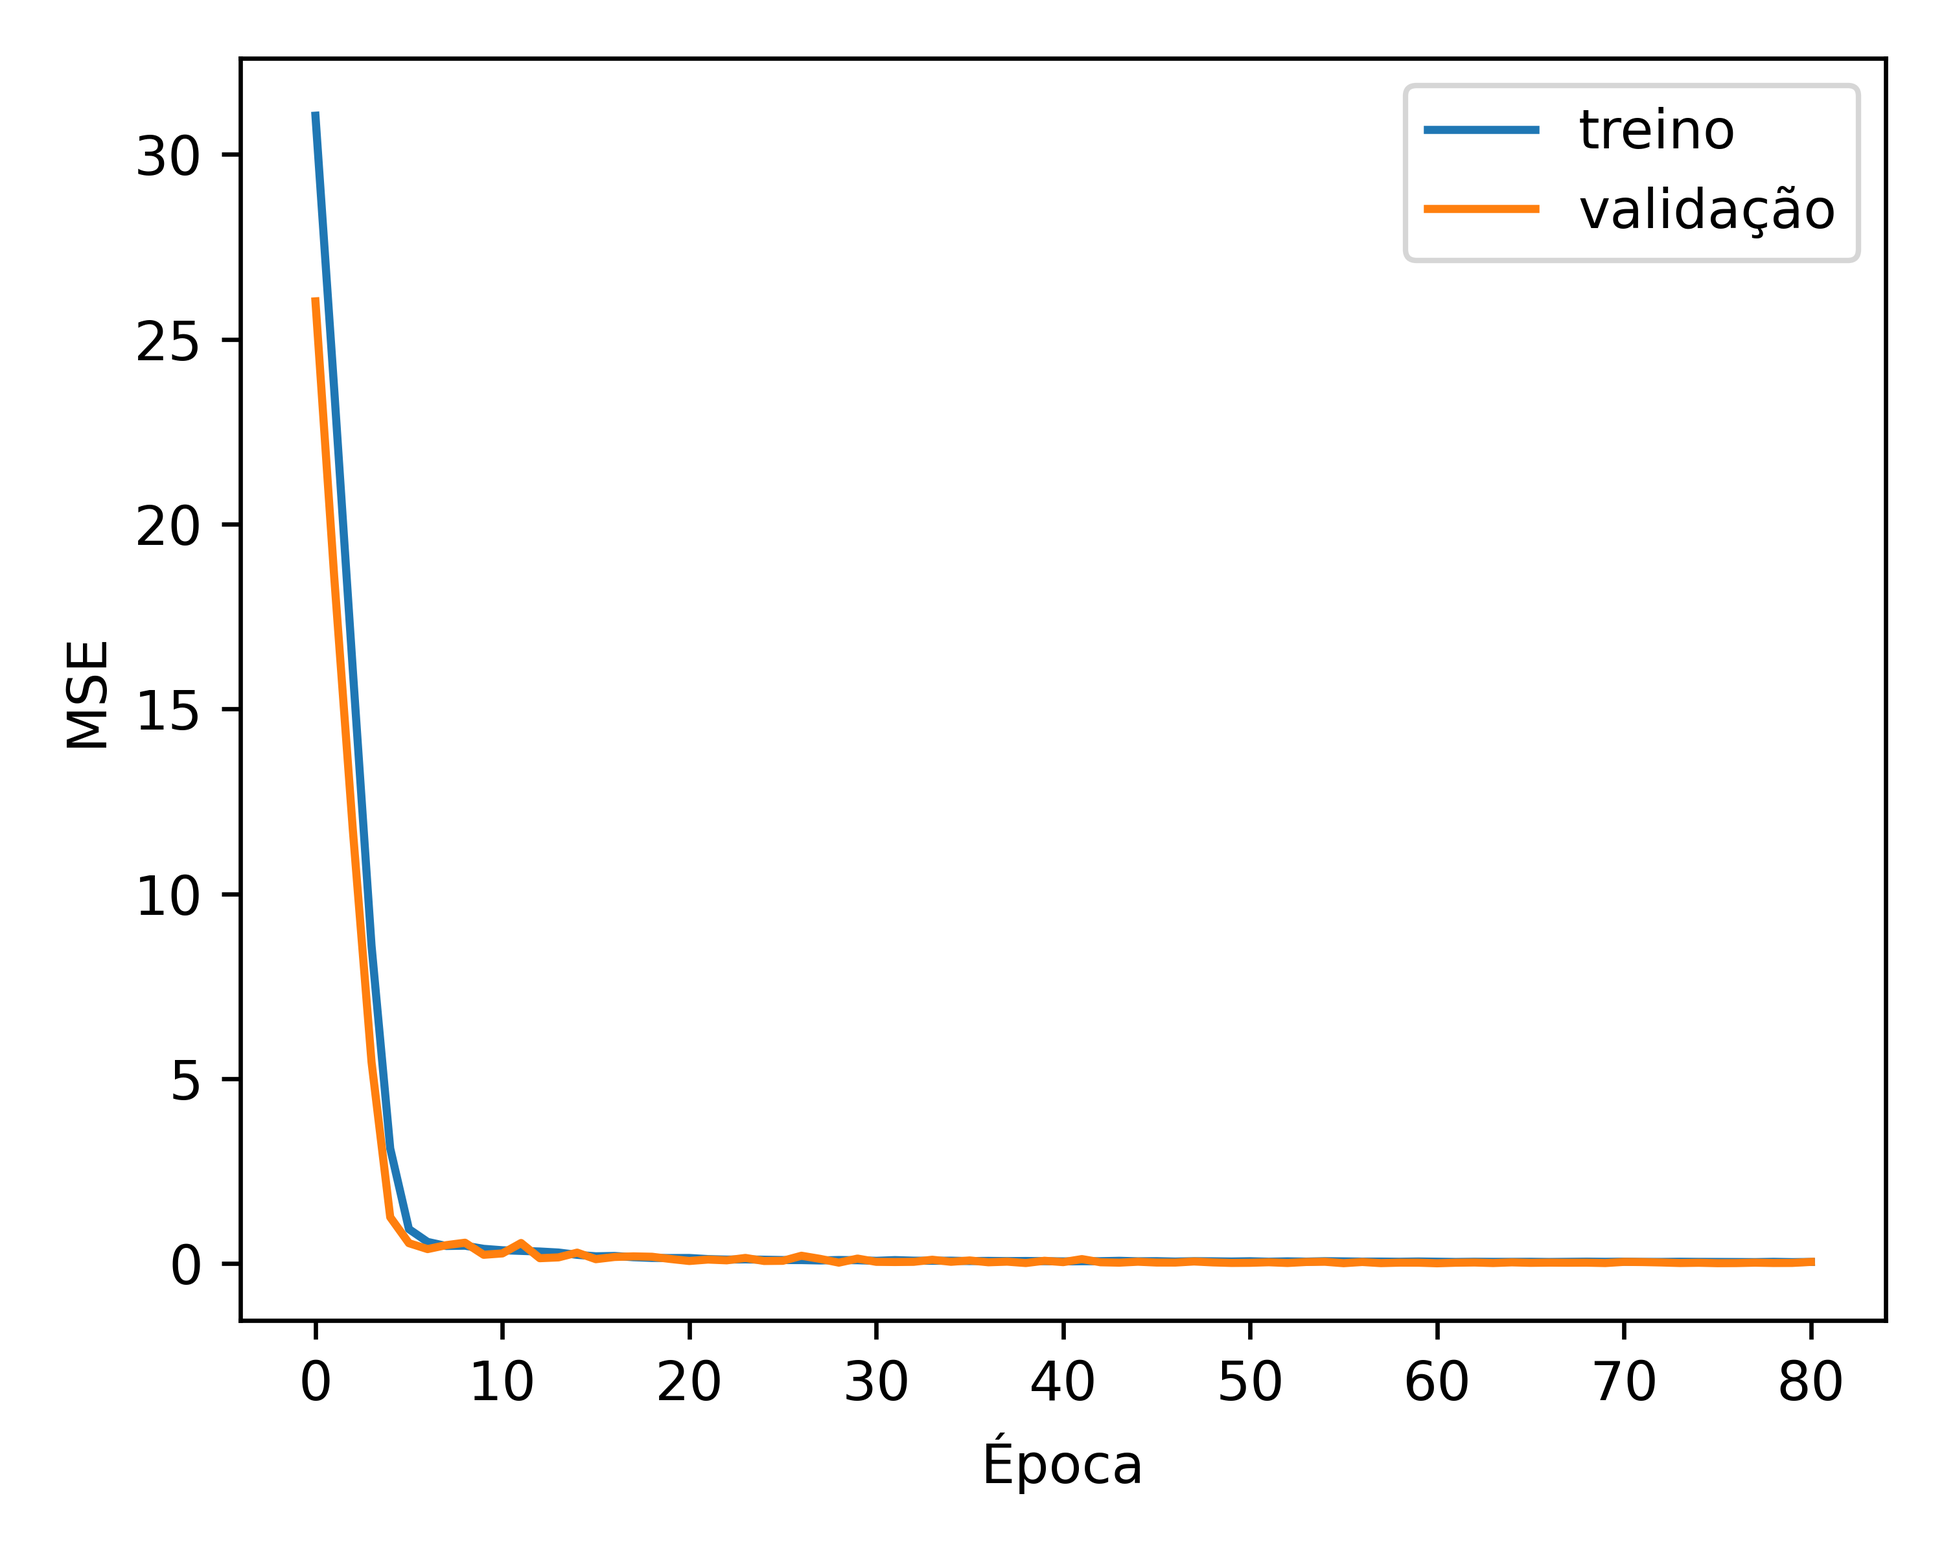
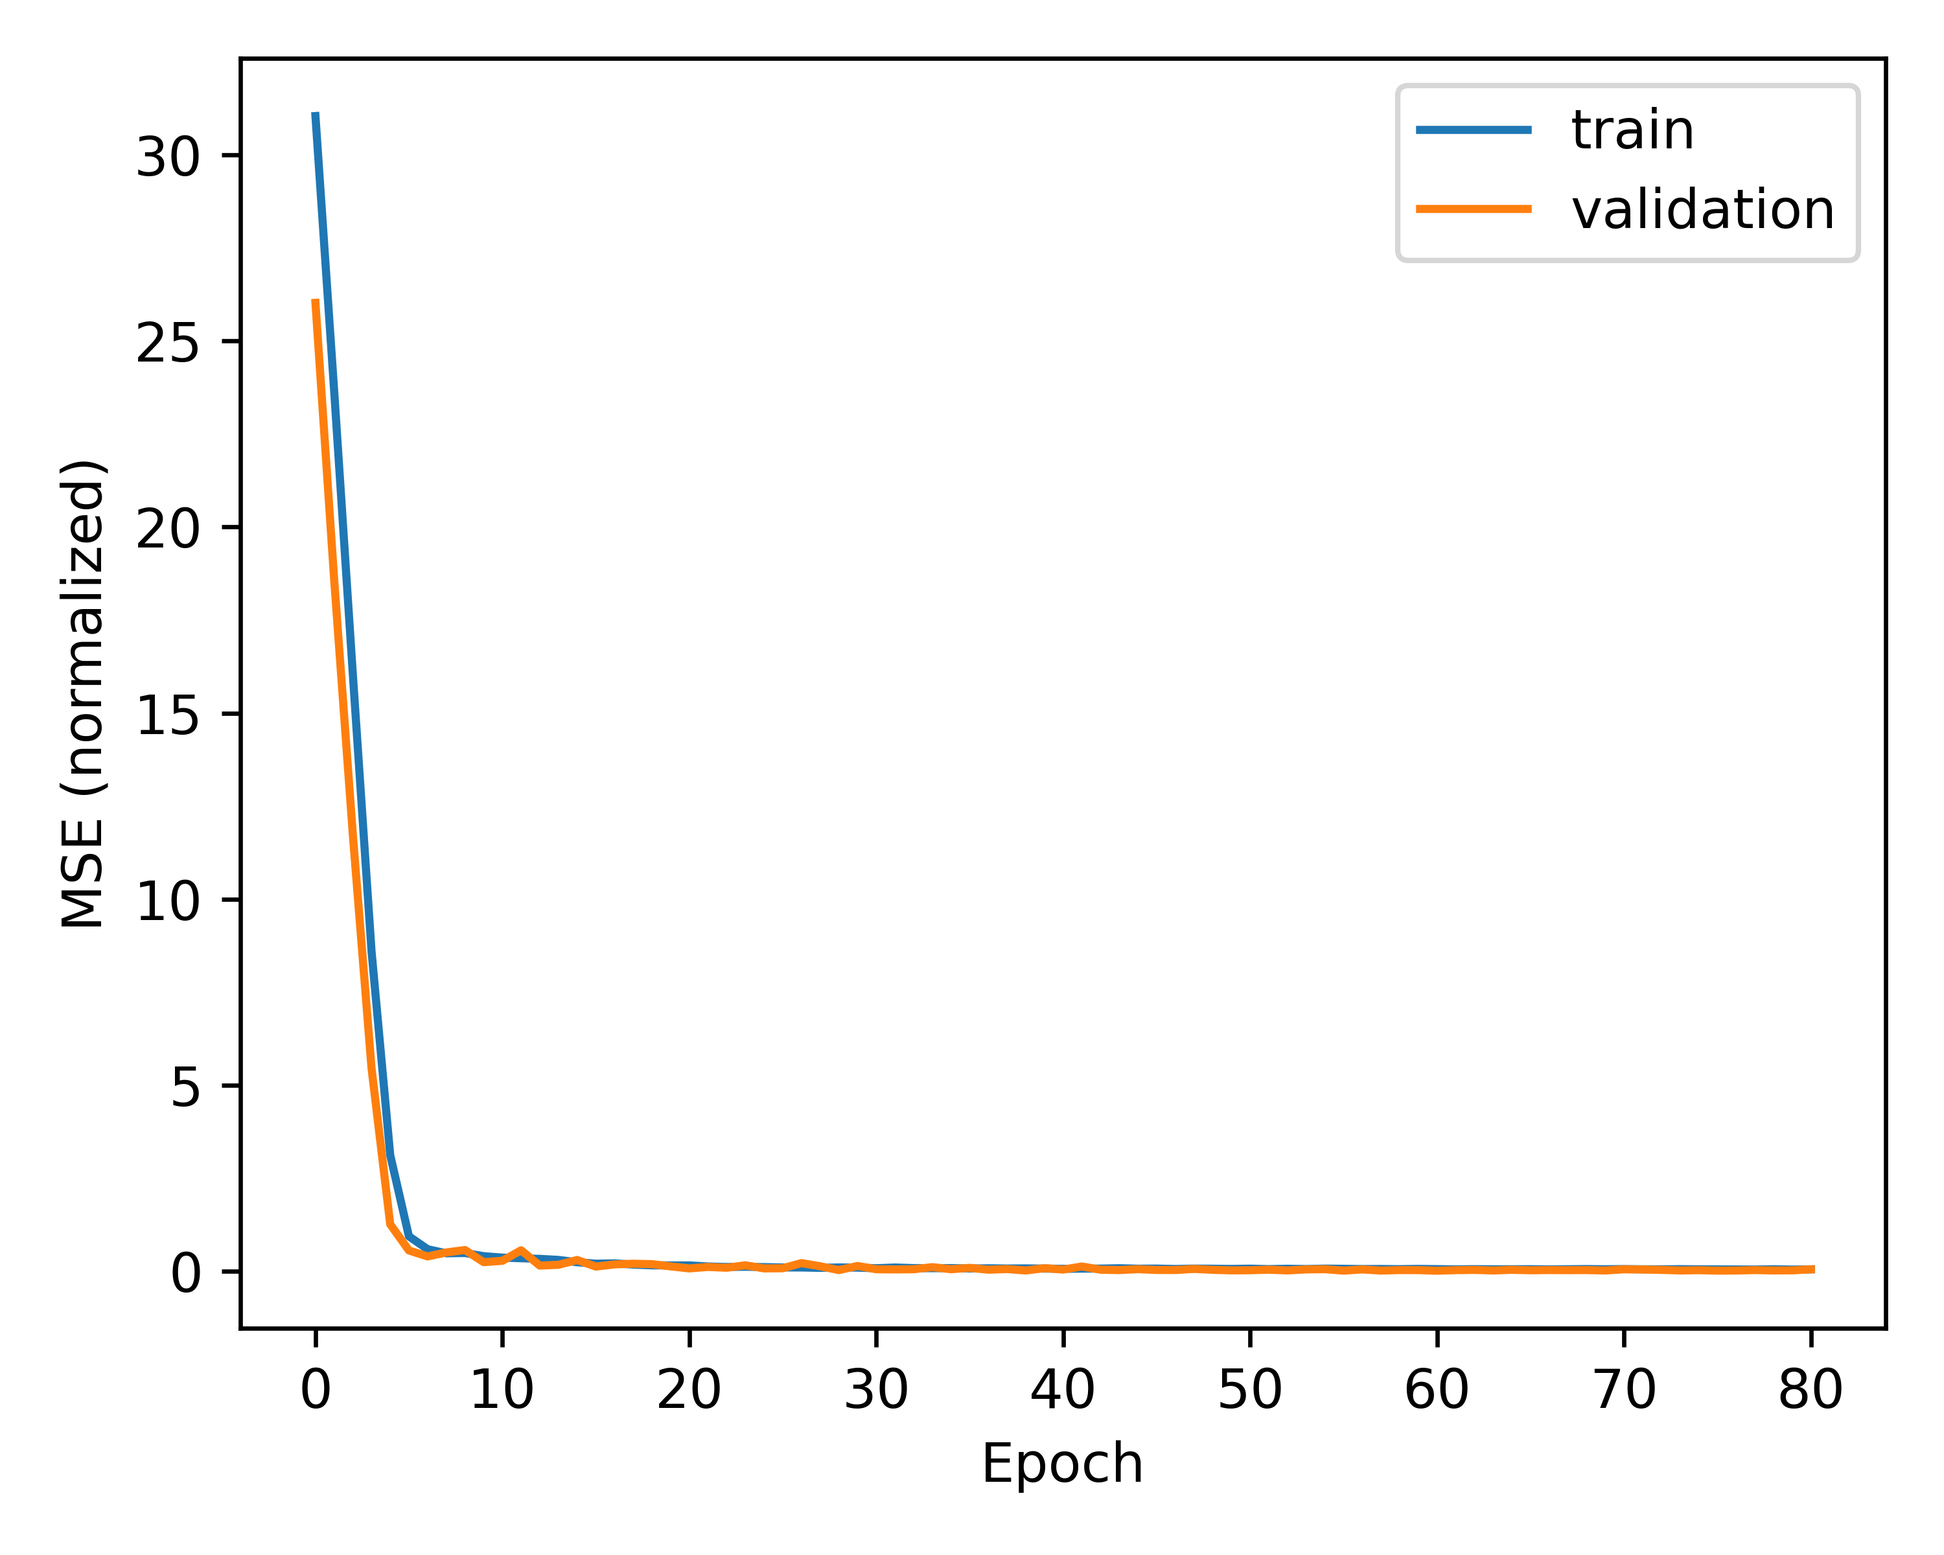
artigo com resultados

diff --git a/artigo/results.tex b/artigo/results.tex
@@ -5,13 +5,8 @@ aumento de dados (ruído gaussiano leve) e seleção de hiperparâmetros
 via busca em grade. As análises exploratórias mostram a distribuição das
 variáveis e suas correlações, enquanto as figuras de desempenho destacam a
 estabilidade do treinamento e a qualidade das predições em relação aos valores
-observados.
-
-Com a melhor configuração do grid search (Tabela~\ref{tab:grid_top5}), o modelo
-atingiu desempenho de teste $MSE=0{,}0327$ e $MAE=0{,}1437$ para a predição de pH.
-Considerando a faixa observada de pH (aprox. 5{,}16 a 6{,}52), o erro médio absoluto
-representa uma fração reduzida do intervalo total, indicando boa precisão relativa
-para um conjunto de dados pequeno.
+observados. A Tabela~\ref{tab:grid_top5} resume as cinco melhores combinações do
+grid search do modelo multimodal, ordenadas pela menor perda de validação.
 
 \begin{table}[ht!]
 \centering
@@ -148,29 +143,112 @@ organiza esses valores para facilitar a comparação com a Raspberry.
 Dispositivo & Latência média (ms) & Desvio padrão (ms) & Throughput (amostras/s) \\
 \midrule
 Android 23021RAAEG & $0{,}093$ & $0{,}005$ & $10780{,}37$ \\
+Android SM-A566E & $0{,}030$ & $0{,}002$ & $33425{,}81$ \\
+Android 2201117SG & $0{,}61$ & $0{,}014$ & $16313{,}16$ \\
 \bottomrule
 \end{tabular}
 \label{tab:latency_android}
 \end{table}
 
 Além da latência, a energia incremental foi estimada diretamente no celular via leitura
-de corrente e tensão do sistema. A potência média em idle foi $1{,}977$ W e em carga
-$2{,}106$ W, resultando em $\Delta P = 0{,}128$ W. Com throughput de $12337{,}40$
-amostras/s, a energia por inferência estimada foi de $0{,}0104$ mJ/inf, baseada em
-200 amostras de potência (Tabela~\ref{tab:energy_android}).
+de corrente e tensão do sistema. No 23021RAAEG, a potência média em idle foi $1{,}977$ W e em
+carga $2{,}106$ W, resultando em $\Delta P = 0{,}128$ W e energia de $0{,}0104$ mJ/inf
+($12337{,}40$ amostras/s). No SM-A566E, a potência média em idle foi $3{,}455$ W e em carga
+$3{,}923$ W, resultando em $\Delta P = 0{,}468$ W e energia de $0{,}0151$ mJ/inf
+($30905{,}08$ amostras/s). No 2201117SG, a potência média em idle foi $8{,}158$ W e em carga
+$8{,}204$ W, resultando em $\Delta P = 0{,}046$ W e energia de $0{,}00285$ mJ/inf
+($16121{,}71$ amostras/s). Em todos os casos foram coletadas 200 amostras de potência
+(Tabela~\ref{tab:energy_android}).
 
 \begin{table}[ht!]
 \centering
 \caption{Estimativa de energia incremental por inferência no dispositivo Android.}
-\begin{tabular}{lcccc}
+\begin{tabular}{lccccc}
 \toprule
-$P_{idle}$ (W) & $P_{carga}$ (W) & $\Delta P$ (W) & Energia (mJ/inf) & Amostras \\
+Dispositivo & $P_{idle}$ (W) & $P_{carga}$ (W) & $\Delta P$ (W) & Energia (mJ/inf) & Amostras \\
 \midrule
-1{,}977 & 2{,}106 & 0{,}128 & 0{,}0104 & 200 \\
+Android 23021RAAEG & 1{,}977 & 2{,}106 & 0{,}128 & 0{,}0104 & 200 \\
+Android SM-A566E & 3{,}455 & 3{,}923 & 0{,}468 & 0{,}0151 & 200 \\
+Android 2201117SG & 8{,}158 & 8{,}204 & 0{,}046 & 0{,}00285 & 200 \\
 \bottomrule
 \end{tabular}
 \label{tab:energy_android}
 \end{table}
+
+Na ESP32 (dual-core, 160 MHz), o benchmark embarcado reportou latência média de
+$1{,}8174$ ms (desvio padrão $0{,}0024$ ms) e throughput de $550{,}25$ amostras/s,
+com 1000 execuções. Além disso, as métricas embarcadas indicaram $MAE_{pH}=0{,}0984$,
+$MAE_{OD}=0{,}1825$ e $MAE_{TURB}=0{,}8542$, evidenciando viabilidade de inferência
+multimodal em microcontrolador com precisão consistente ao cenário móvel (Tabela~\ref{tab:esp32_benchmark}).
+
+\begin{table}[ht!]
+\centering
+\caption{Benchmark de inferência na ESP32.}
+\begin{tabular}{lcc}
+\toprule
+Métrica & Valor & Unidade \\
+\midrule
+Latência média & $1{,}8174$ & ms \\
+Desvio padrão & $0{,}0024$ & ms \\
+Throughput & $550{,}25$ & amostras/s \\
+$MAE_{pH}$ & $0{,}0984$ & -- \\
+$MAE_{OD}$ & $0{,}1825$ & -- \\
+$MAE_{TURB}$ & $0{,}8542$ & -- \\
+\bottomrule
+\end{tabular}
+\label{tab:esp32_benchmark}
+\end{table}
+
+Para a energia da ESP32, o consumo médio em \textit{idle} foi de $0{,}570$ W e em
+\textit{carga} (inferência contínua) de $1{,}949$ W, resultando em $\Delta P=1{,}380$ W.
+Com throughput de $550{,}25$ amostras/s, a energia por inferência estimada foi de
+$2{,}507$ mJ/inf. Esses valores foram obtidos a partir de 88 amostras de \textit{idle}
+e 39 amostras de \textit{carga}, usando a mesma fonte de 5 V e o sensor ACS712 (Tabela~\ref{tab:energy_esp32}).
+
+\begin{table}[H]
+\centering
+\caption{Estimativa de energia incremental por inferência (ESP32).}
+\begin{tabular}{lcccc}
+\toprule
+$P_{idle}$ (W) & $P_{carga}$ (W) & $\Delta P$ (W) & Energia (mJ/inf) & $N_{idle}/N_{carga}$ \\
+\midrule
+0{,}570 & 1{,}949 & 1{,}380 & 2{,}507 & 88/39 \\
+\bottomrule
+\end{tabular}
+\label{tab:energy_esp32}
+\end{table}
+
+
+
+Em termos comparativos (Tabela~\ref{tab:energy_summary}), a ESP32 apresenta maior energia por
+inferência, o que é esperado dada a menor taxa de processamento (throughput) e a ausência de
+aceleração vetorial dedicada. Apesar disso, o valor permanece viável para cenários de amostragem
+intermitente, típicos de redes de sensores de baixa taxa. A Raspberry Pi 4B e os smartphones
+apresentam menores valores de mJ/inf, refletindo maior capacidade computacional e otimizações
+em nível de CPU/sistema operacional. O aparelho SM-A566E, por exemplo, combina alto throughput
+com consumo incremental moderado, resultando em baixa energia por inferência.
+
+\begin{table}[ht!]
+\centering
+\caption{Resumo comparativo de energia por inferência em diferentes plataformas.}
+\begin{tabular}{lccc}
+\toprule
+Plataforma & $\Delta P$ (W) & Energia (mJ/inf) & Throughput (amostras/s) \\
+\midrule
+ESP32 & 1{,}380 & 2{,}507 & 550{,}25 \\
+Raspberry Pi 4B & 0{,}239 & 0{,}020 & 11639{,}71 \\
+Android 23021RAAEG & 0{,}128 & 0{,}0104 & 12337{,}40 \\
+Android SM-A566E & 0{,}468 & 0{,}0151 & 30905{,}08 \\
+Android 2201117SG & 0{,}046 & 0{,}00285 & 16121{,}71 \\
+\bottomrule
+\end{tabular}\label{tab:energy_summary}
+\end{table}
+
+Já o dispositivo 2201117SG apresentou energia por inferência elevada mesmo com throughput
+alto, sugerindo maior consumo incremental do sistema durante a execução do benchmark. Esse
+resultado destaca que, em dispositivos móveis, o consumo pode variar significativamente entre
+modelos e configurações de sistema, reforçando a importância de medições empíricas por aparelho
+quando a eficiência energética é requisito de projeto.
 
 Para estimar o custo energético incremental da inferência, foi utilizado o sensor
 ACS712-20A em série com a alimentação da Raspberry Pi 4B, medindo a corrente em

diff --git a/artigo/methods.tex b/artigo/methods.tex
@@ -26,7 +26,7 @@ em treino/validação/teste foi feita com proporções fixas e embaralhamento co
 
 \begin{table}[H]
 \centering
-\caption{Divisão do conjunto de dados (N=60).}
+\caption{Divisão do conjunto de dados.}
 \begin{tabular}{lcc}
 \toprule
 Partição & Proporção & Número de amostras \\
@@ -164,11 +164,14 @@ Runtime & TFLite (delegate XNNPACK) \\
 \end{table}
 
 Adicionalmente, para avaliar a execução no dispositivo móvel de borda, o aplicativo Android
-foi testado no aparelho \textit{23021RAAEG} (SoC Qualcomm, Android 15), com aproximadamente
-5{,}5~GiB de memória RAM disponível (MemTotal: 5{,}77~GB). Essa configuração foi utilizada
-para o benchmark de latência no aplicativo.
+foi testado em três aparelhos: \textit{23021RAAEG} (SoC Qualcomm, Android 15), com aproximadamente
+5{,}5~GiB de memória RAM disponível (MemTotal: 5{,}77~GB), \textit{SM-A566E} (SoC s5e8855,
+Android 16), com aproximadamente 7{,}3~GiB de memória RAM disponível (MemTotal: 7{,}60~GB) e
+\textit{2201117SG} (SoC mt6781, Android 13), com aproximadamente 5{,}6~GiB de memória RAM
+disponível (MemTotal: 5{,}86~GB). Essas configurações foram utilizadas para os benchmarks de
+latência no aplicativo.
 
-\subsection{Medição de energia com ACS712}
+\subsection{Medição de energia}
 Para quantificar o consumo incremental durante a inferência, foi utilizado o sensor de corrente
 ACS712-20A em série com a alimentação da Raspberry Pi 4B. O procedimento foi conduzido com calibração
 do offset do sensor sem carga para garantir leitura próxima de zero, seguida de amostragem contínua da
@@ -179,6 +182,18 @@ tensão. Duas janelas de medição foram consideradas: \textit{idle} com a Raspb
 e a potência incremental como $\Delta P = P_{carga} - P_{idle}$. A energia por inferência foi então
 estimada como $\Delta P / \mathrm{throughput}$, produzindo uma métrica em mJ/inf para comparação entre
 cenários de borda.
+
+Para o dispositivo móvel, a estimativa de energia foi realizada diretamente no aplicativo Android.
+A corrente foi obtida via \textit{BatteryManager} (propriedade \texttt{BATTERY\_PROPERTY\_CURRENT\_NOW})
+e a tensão via \textit{ACTION\_BATTERY\_CHANGED} (campo \texttt{EXTRA\_VOLTAGE}), com amostragem
+periódica durante janelas de \textit{idle} e de \textit{carga} (benchmark). A potência foi calculada
+como $P = V \cdot I$ e a potência incremental como $\Delta P = P_{carga} - P_{idle}$, permitindo
+estimar a energia por inferência pela razão $\Delta P / \mathrm{throughput}$ a partir de 200 amostras
+de potência em cada aparelho.
+
+Para a ESP32, a inferência foi executada em C/C++ (ESP-IDF), com rotina de benchmark dedicada.
+Foram realizados 10 \textit{warmup runs}, 1000 execuções para estimativa de latência média e
+throughput, e 200 amostras individuais para o desvio padrão, conforme o log serial do firmware.
 
 %----------------------------------------------------------------------------------------
 %   RESULTADOS

diff --git a/artigo/conclusion.tex b/artigo/conclusion.tex
@@ -22,9 +22,15 @@ da representação temporal e latência de inferência no celular por meio do pa
 o estudo ainda depende de base amostral local e reduzida, o que restringe a generalização para outros
 corpos hídricos e regimes sazonais; além disso, o aumento de dados sintético não substitui coletas reais,
 e diferenças entre modelos podem variar com novas campanhas de campo. A validação prática foi feita em
-Android e Raspberry Pi, de modo que a extrapolação para microcontroladores ultra-restritos (ex. ESP32)
-requer testes adicionais. Como continuidade desta pesquisa, recomenda-se ampliar campanhas de coleta,
-validar o modelo em múltiplos cenários ambientais e medir de forma sistemática latência, consumo energético
-e robustez operacional em diferentes dispositivos de borda. Também é relevante evoluir a calibração do
-índice composto de poluição com apoio de especialistas ambientais e testar estratégias de atualização
-de modelo em campo para diferentes regimes hidrológicos.
+Android, Raspberry Pi e ESP32, mas a extrapolação para outros microcontroladores e diferentes perfis de
+energia requer medições adicionais e campanhas de campo mais amplas. Como continuidade desta pesquisa,
+recomenda-se ampliar campanhas de coleta, validar o modelo em múltiplos cenários ambientais e medir de
+forma sistemática latência, consumo energético e robustez operacional em diferentes dispositivos de borda.
+Também é relevante evoluir a calibração do índice composto de poluição com apoio de especialistas
+ambientais e testar estratégias de atualização de modelo em campo para diferentes regimes hidrológicos.
+
+Como contribuição adicional, a validação em ESP32 mostrou que a inferência multimodal é viável
+em microcontroladores, com latência de ordem de milissegundos e erros absolutos compatíveis com
+o cenário móvel. A comparação energética entre ESP32, Raspberry Pi e smartphones evidenciou
+trade-offs claros entre throughput e energia por inferência, reforçando a importância de escolher
+plataforma e regime de amostragem conforme o contexto operacional.

diff --git a/artigo/discussion.tex b/artigo/discussion.tex
@@ -21,7 +21,10 @@ físico-químicos esperados em ambientes lênticos, fornecendo suporte adicional
 modelo proposto.
 Além do desempenho preditivo, a execução do modelo em Raspberry Pi 4B apresentou latência
 sub-milissegundo por amostra, reforçando a viabilidade de inferência local em hardware de
-baixo consumo e compatível com cenários remotos e offline.
+baixo consumo e compatível com cenários remotos e offline. A validação em ESP32 amplia esse
+resultado para a classe de microcontroladores: mesmo com menor throughput, o benchmark indicou
+latência média da ordem de milissegundos e erro absoluto consistente, demonstrando que o modelo
+multimodal pode operar de forma autônoma em dispositivos altamente restritos.
 \par
 Do ponto de vista prático, a diferença entre modelos sugere que a escolha depende do objetivo
 operacional. Random Forest e LSTM tendem a minimizar erro médio, enquanto a SNN oferece uma
@@ -31,6 +34,14 @@ densos clássicos são sensíveis em bases pequenas e podem variar de forma sign
 sementes. Além disso, a dificuldade sistemática na turbidez indica que esse parâmetro exige
 informação adicional (por exemplo, variáveis hidrodinâmicas ou sazonais) para melhorar a
 generalização.
+
+Em termos energéticos, a comparação entre ESP32, Raspberry Pi e dispositivos Android evidencia
+que o consumo incremental por inferência varia significativamente conforme o hardware e o
+throughput disponível. A ESP32 apresentou maior energia por inferência, mas permanece adequada
+para aplicações de baixa taxa de amostragem, enquanto Raspberry Pi e smartphones oferecem melhor
+eficiência por inferência em cenários que exigem maior volume de predições. Esses resultados
+confirmam que a escolha da plataforma deve considerar não apenas a acurácia, mas também o regime
+de amostragem e as restrições energéticas do ambiente de implantação.
 
 \par
 Outra consideração importante é que a codificação temporal por \textit{rate coding} implica

diff --git a/scripts_multimodal/figures.py b/scripts_multimodal/figures.py
@@ -10,8 +10,8 @@ def _ensure_dir(path: str):
 def save_loss_curve(train_losses: list, val_losses: list, out_dir: str, dpi: int):
     _ensure_dir(out_dir)
     plt.figure(figsize=(5, 4))
-    plt.plot(train_losses, label="treino")
-    plt.plot(val_losses, label="validação")
+    plt.plot(train_losses, label="train")
+    plt.plot(val_losses, label="validation")
     plt.xlabel("Época")
     plt.ylabel("MSE")
     plt.legend()

diff --git a/scripts/figures.py b/scripts/figures.py
@@ -99,8 +99,8 @@ def save_loss_curve(
 ):
     _ensure_dir(out_dir)
     plt.figure(figsize=(5, 4))
-    plt.plot(train_losses, label="treino")
-    plt.plot(val_losses, label="validação")
+    plt.plot(train_losses, label="train")
+    plt.plot(val_losses, label="validation")
     plt.xlabel("Epoch")
     plt.ylabel("MSE (normalized)")
     plt.legend()

diff --git a/embarcado/esp32_snn_water/monitor.py b/embarcado/esp32_snn_water/monitor.py
@@ -3,7 +3,7 @@ import sys
 import time
 
 try:
-    ser = serial.Serial('COM4', 115200, timeout=1)
+    ser = serial.Serial('/dev/ttyUSB0', 115200, timeout=1)
     print('========== MONITOR SERIAL SNN ==========')
     print('Aguardando boot do ESP32...\n')
     

diff --git a/artigo/main.tex b/artigo/main.tex
@@ -41,7 +41,7 @@
 \pagestyle{fancy}
 \fancyhead{}
 \fancyfoot{}
-\fancyhead[C]{Running title $\bullet$ November 2025 $\bullet$ Vol. XXI, No. 1}
+\fancyhead[C]{}
 \fancyfoot[RO,LE]{\thepage}
 
 % Citações ABNT autor-data
